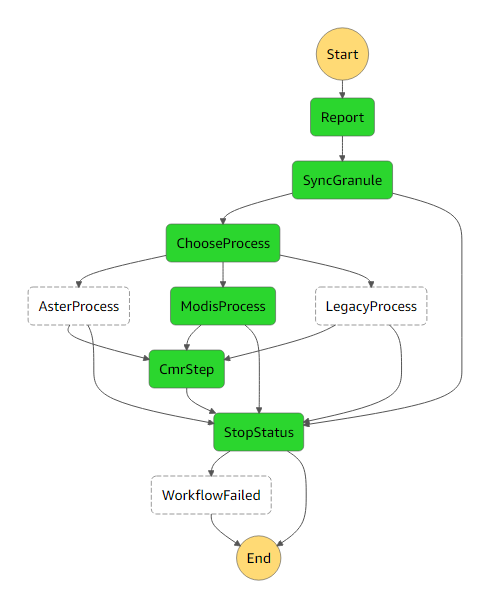
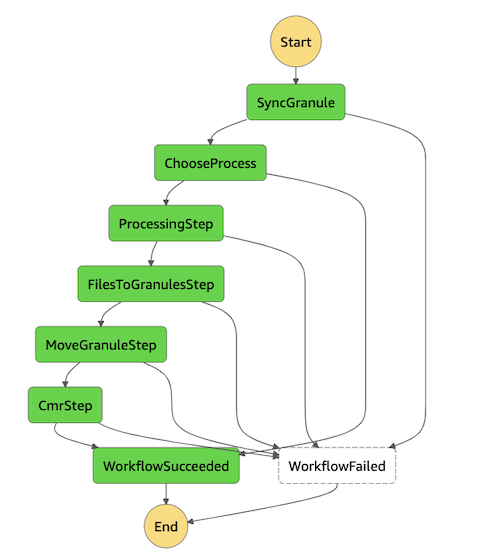
update workflow execution images

diff --git a/docs/data-cookbooks/sips-workflow.md b/docs/data-cookbooks/sips-workflow.md
@@ -16,7 +16,7 @@ In this document, we assume the user already has a provider endpoint configured 
 
 We need to have a [provider](data-cookbooks/setup.md#providers) from whom data can be ingested. Our provider is an S3 provider hosted in the `cumulus-test-internal` bucket.
 
-![Screenshot of Cumulus dashboard screen configuring a SIPS provider](assets/sips-provider.png)
+![Screenshot of Cumulus dashboard screen for configuring an S3 provider](assets/sips-provider.png)
 
 ### Collection
 
@@ -102,7 +102,7 @@ This workflow will discover PDRs and queue them to be processed. Duplicate PDRs 
 1. DiscoverPdrs - [source](https://github.com/nasa/cumulus/tree/master/tasks/discover-pdrs)
 2. QueuePdrs - [source](https://github.com/nasa/cumulus/tree/master/tasks/queue-pdrs)
 
-![Screenshot of execution graph for DiscoverAndQueuePdrs workflow in the AWS Step Functions console](assets/sips-discover-and-queue-pdrs-execution.png)
+![Screenshot of execution graph for discover and queue PDRs workflow in the AWS Step Functions console](assets/sips-discover-and-queue-pdrs-execution.png)
 
 _An example workflow module configuration can be viewed in the Cumulus source for the [discover_and_queue_pdrs_workflow](https://github.com/nasa/cumulus/blob/master/example/cumulus-tf/discover_and_queue_pdrs_workflow.tf)._
 
@@ -133,13 +133,13 @@ The lambdas below are included in the `cumulus` terraform module for use in your
 1. SyncGranule - [source](https://github.com/nasa/cumulus/tree/master/tasks/sync-granule).
 2. CmrStep - [source](https://github.com/nasa/cumulus/tree/master/tasks/post-to-cmr)
 
-Additionally this workflow requires a ProcessingStep you must provide. The "AsterProcess," "ModisProcess," and "LegacyProcess" steps in the workflow picture below are examples of custom processing steps.
+Additionally this workflow requires a processing step you must provide. The ProcessingStep step in the workflow picture below is an example of a custom processing step.
 
 **Note:** Using the CmrStep is not required and can be left out of the processing trajectory if desired (for example, in testing situations).
 
 ![Screenshot of execution graph for SIPS IngestGranule workflow in AWS Step Functions console](assets/sips-ingest-granule.png)
 
-_An example workflow module configuration can be viewed in the Cumulus source for the [ingest_granule_workflow](https://github.com/nasa/cumulus/blob/master/example/cumulus-tf/ingest_granule_workflow.tf)._
+_An example workflow module configuration can be viewed in the Cumulus source for the [ingest_and_publish_granule_workflow](https://github.com/nasa/cumulus/blob/master/example/cumulus-tf/ingest_and_publish_granule_workflow.tf)._
 
 _**Please note:** To use this example workflow module as a template for a new workflow in your deployment the `source` key for the workflow module would need to point to a release of the cumulus-workflow (terraform-aws-cumulus-workflow.zip) module on our [release](https://github.com/nasa/cumulus/releases) page, as all of the provided Cumulus workflows are internally self-referential._
 
